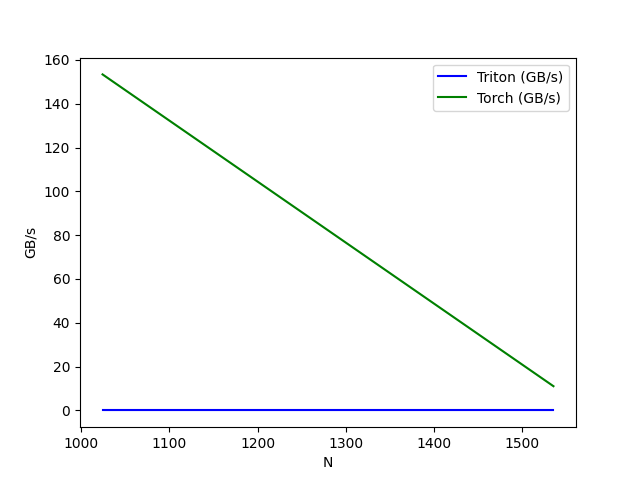
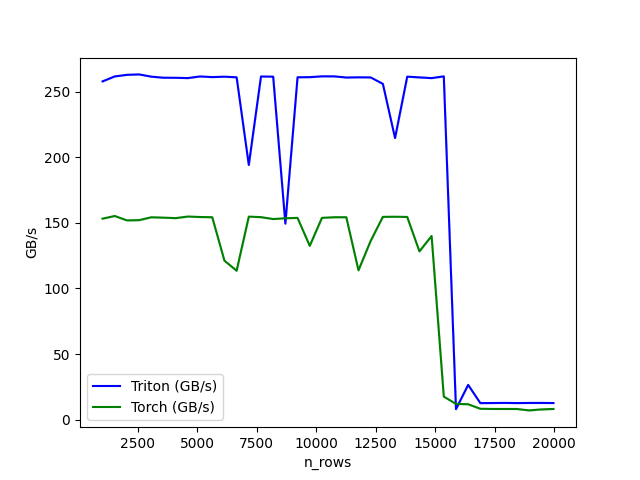
silu fixed bench

diff --git a/silu.py b/silu.py
@@ -3,7 +3,6 @@ import torch
 
 import os
 
-os.environ["TRITON_INTERPRET"] = "1"
 
 import triton
 import triton.language as tl
@@ -23,32 +22,28 @@ def torch_silu(w, up):
 # print(torch_res)
 
 @triton.jit
-def triton_silu(N, M, w, up, y, stride, BLOCK_SIZE: tl.constexpr):
+def triton_silu(n_rows, n_cols, w, up, y, stride, BLOCK_SIZE: tl.constexpr):
     row = tl.program_id(0)
     w += row * stride
     y += row * stride
     up += row * stride
-    for offs in range(0, M, BLOCK_SIZE):
+    for offs in range(0, n_cols, BLOCK_SIZE):
         cols = offs + tl.arange(0, BLOCK_SIZE)
-        a = tl.load(w + cols, mask=cols < M, other=.0).to(tl.float32)
-        b = tl.load(up + cols, mask = cols < M, other=.0).to(tl.float32)
-        tl.store(y + cols, (a * tl.sigmoid(a)) * b, mask=cols < M)
+        mask = cols < n_cols
+        a = tl.load(w + cols, mask=mask, other=.0).to(tl.float32)
+        b = tl.load(up + cols, mask=mask, other=.0).to(tl.float32)
+        tl.store(y + cols, (a * tl.sigmoid(a)) * b, mask=mask)
 
-def tri_easy(N, M, w, up):
+def tri_easy(n_rows, n_cols, w, up):
     y = torch.empty_like(w)
     x_arg = w.reshape(-1, w.shape[-1])
     MAX_FUSED_SIZE = 65536 // w.element_size()
-    BLOCK_SIZE = min(MAX_FUSED_SIZE, triton.next_power_of_2(M))
-    if M > BLOCK_SIZE:
+    BLOCK_SIZE = min(MAX_FUSED_SIZE, triton.next_power_of_2(n_cols))
+    if n_cols > BLOCK_SIZE:
         raise RuntimeError("This layer norm doesn't support feature dim >= 64KB.")
 # heuristics for number of warps
     num_warps = min(max(BLOCK_SIZE // 256, 1), 8)
-    print(f'BLOCK_SIZE {BLOCK_SIZE}')
-    print(f'num_warps {num_warps}')
-    print(f'stride {x_arg.stride(0)}')
-    print(f'x_arg.shape {x_arg.shape}')
-    print(f'M, N {M} {N}')
-    triton_silu[(N, )](N, M, w, up, y, x_arg.stride(0), BLOCK_SIZE=BLOCK_SIZE, num_warps=num_warps, num_ctas=1)
+    triton_silu[(n_rows, )](n_rows, n_cols, w, up, y, x_arg.stride(0), BLOCK_SIZE=BLOCK_SIZE, num_warps=num_warps, num_ctas=1)
     return y
 
 #for i in range(N):
@@ -60,18 +55,18 @@ def tri_easy(N, M, w, up):
 
 @triton.testing.perf_report(
         triton.testing.Benchmark(
-            x_names = ['N'],
-            x_vals = [512 * i for i in range(2, 32)],
+            x_names = ['n_rows'],
+            x_vals = [512 * i for i in range(2, 40)],
             line_arg='provider',
             line_vals=['triton', 'torch'],
             line_names=['Triton', 'Torch'],
             styles=[('blue', '-'), ('green', '-'), ('orange', '-')],
             ylabel='GB/s',
             plot_name='silu',
-            args={'M': 4096, 'dtype': torch.float32}
+            args={'n_cols': 4096, 'dtype': torch.float32}
         ))
-def bench_silu(M, N, dtype, provider, device=DEVICE):
-    w_shape = (M, N)
+def bench_silu(n_rows, n_cols, dtype, provider, device=DEVICE):
+    w_shape = (n_rows, n_cols)
     w = torch.rand(w_shape, dtype=dtype,device=device)
     up = torch.rand(w_shape, dtype=dtype, device=device)
     quantiles = [0.5, 0.2, 0.8]
@@ -79,7 +74,7 @@ def bench_silu(M, N, dtype, provider, device=DEVICE):
     def y_fwd():
         if provider == 'triton':
             print('tri')
-            return tri_easy(N, M, w, up)
+            return tri_easy(n_rows, n_cols, w, up)
         if provider == 'torch':
             print('tor')
             return torch_silu(w, up)